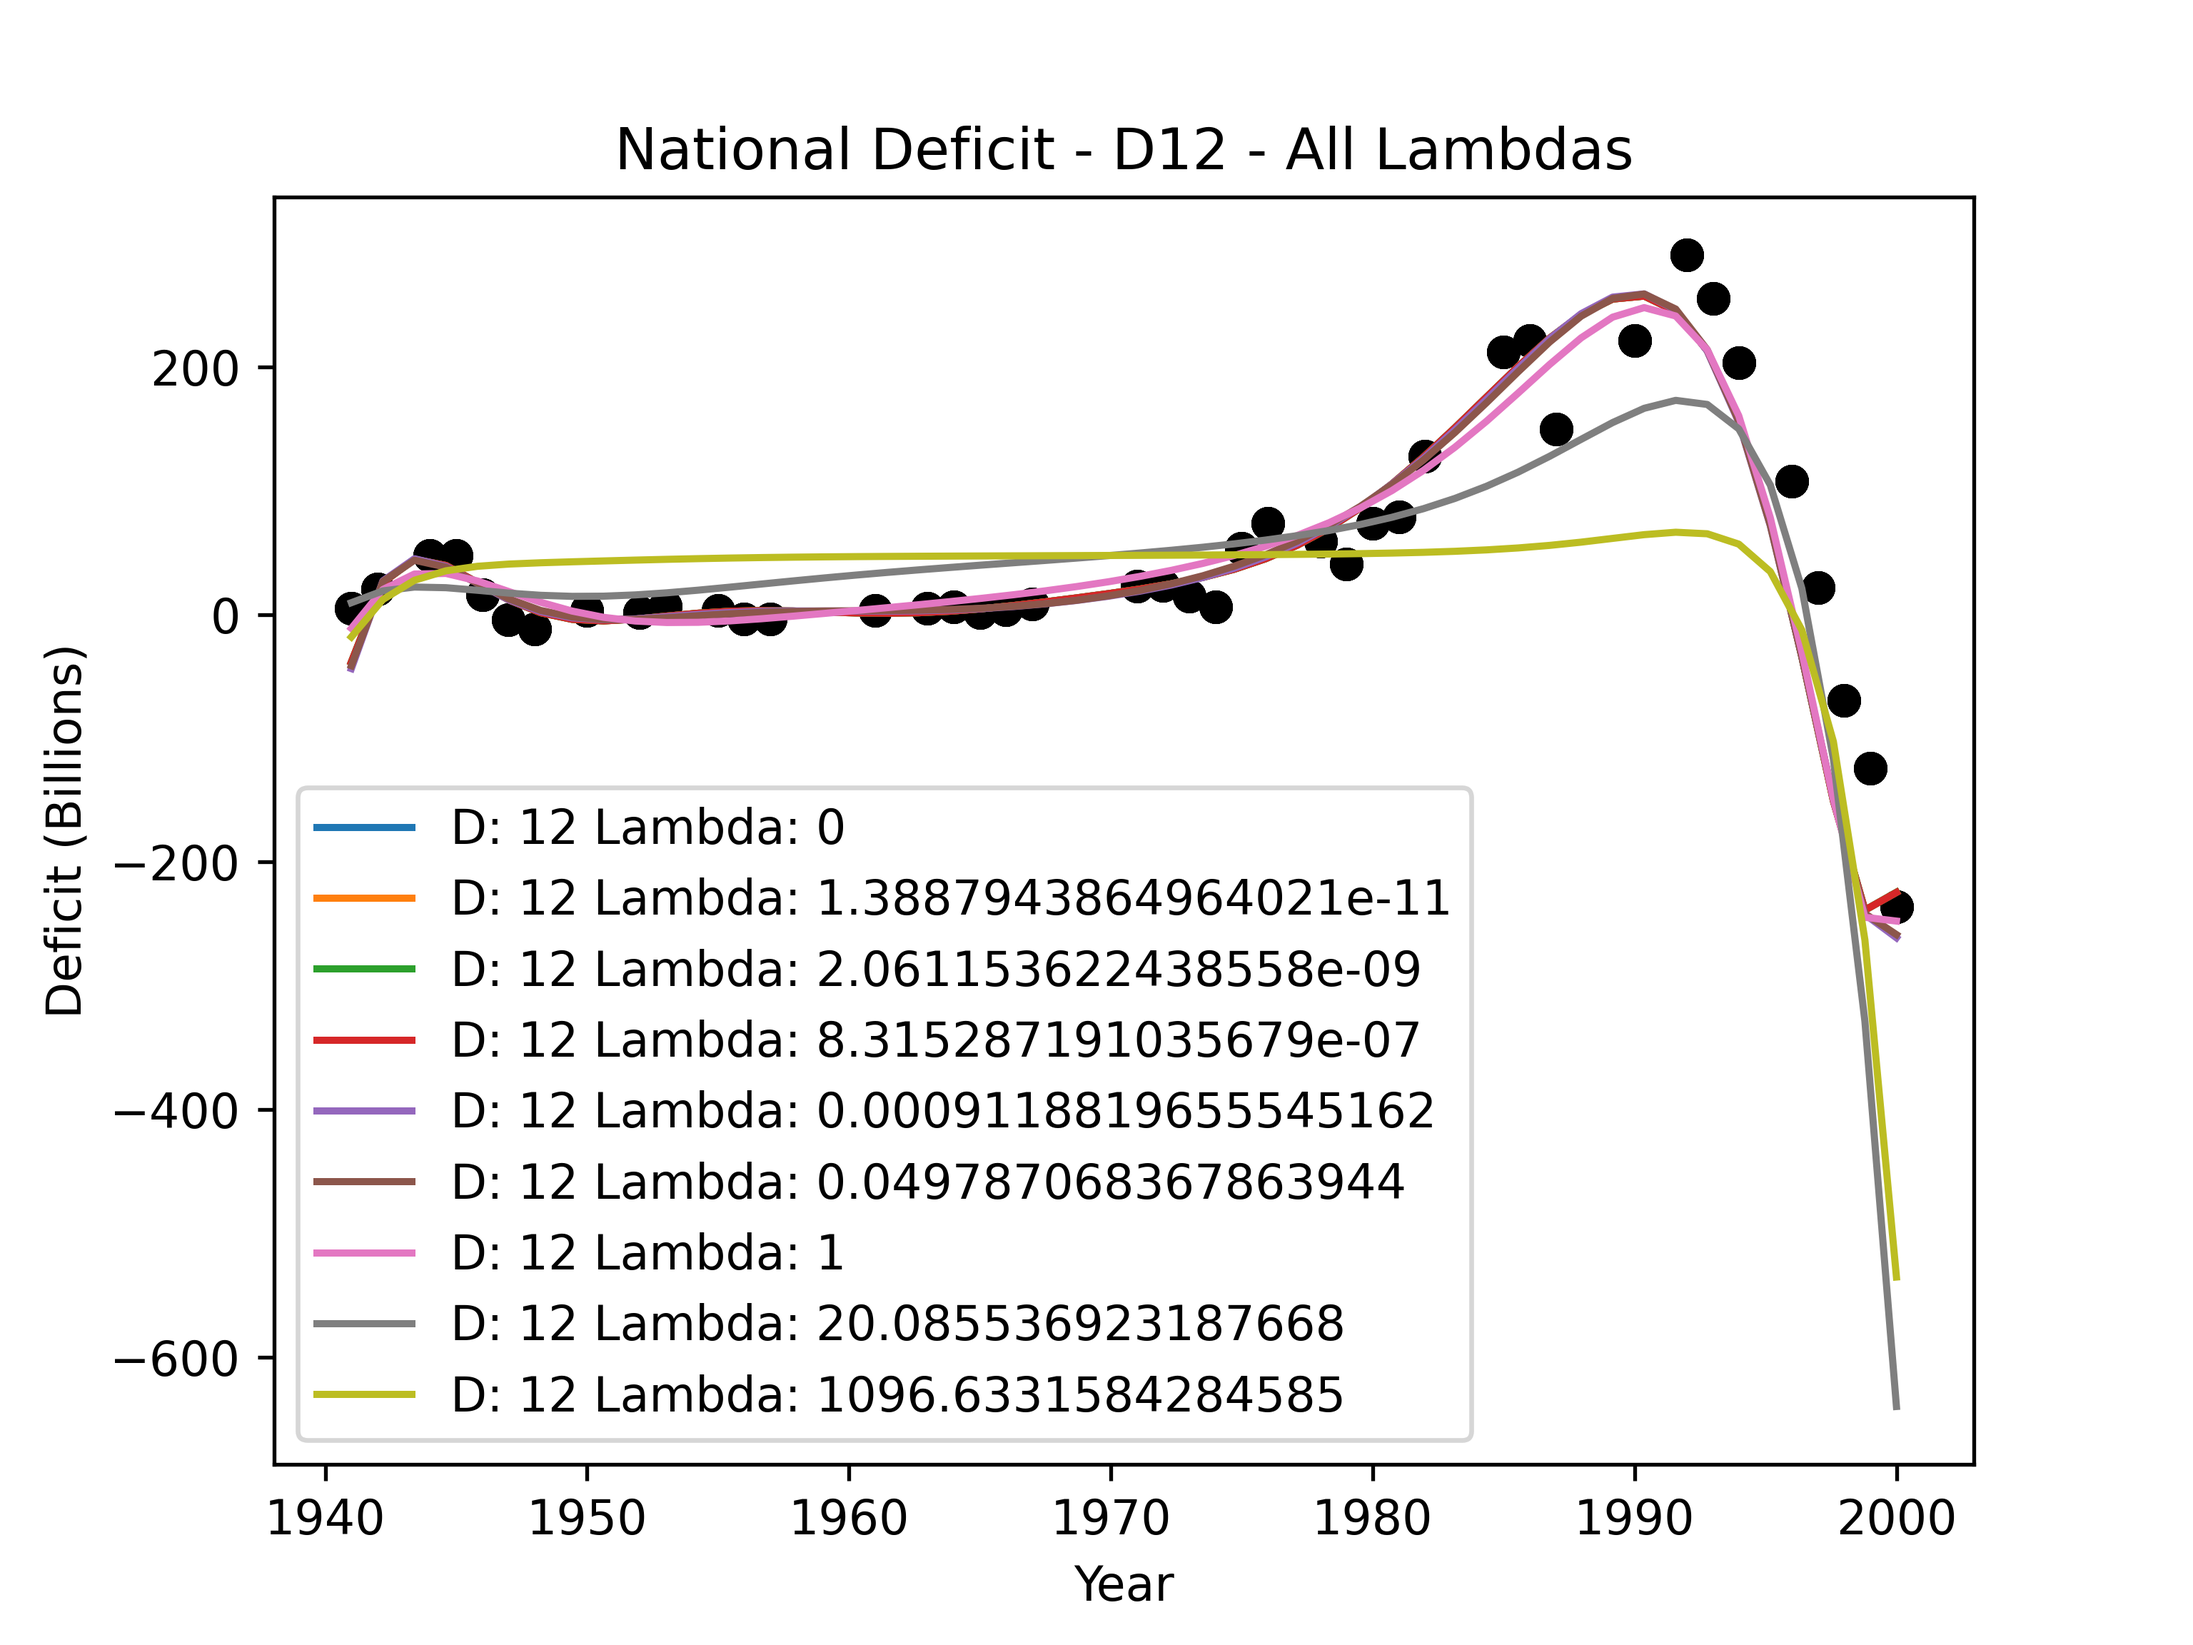
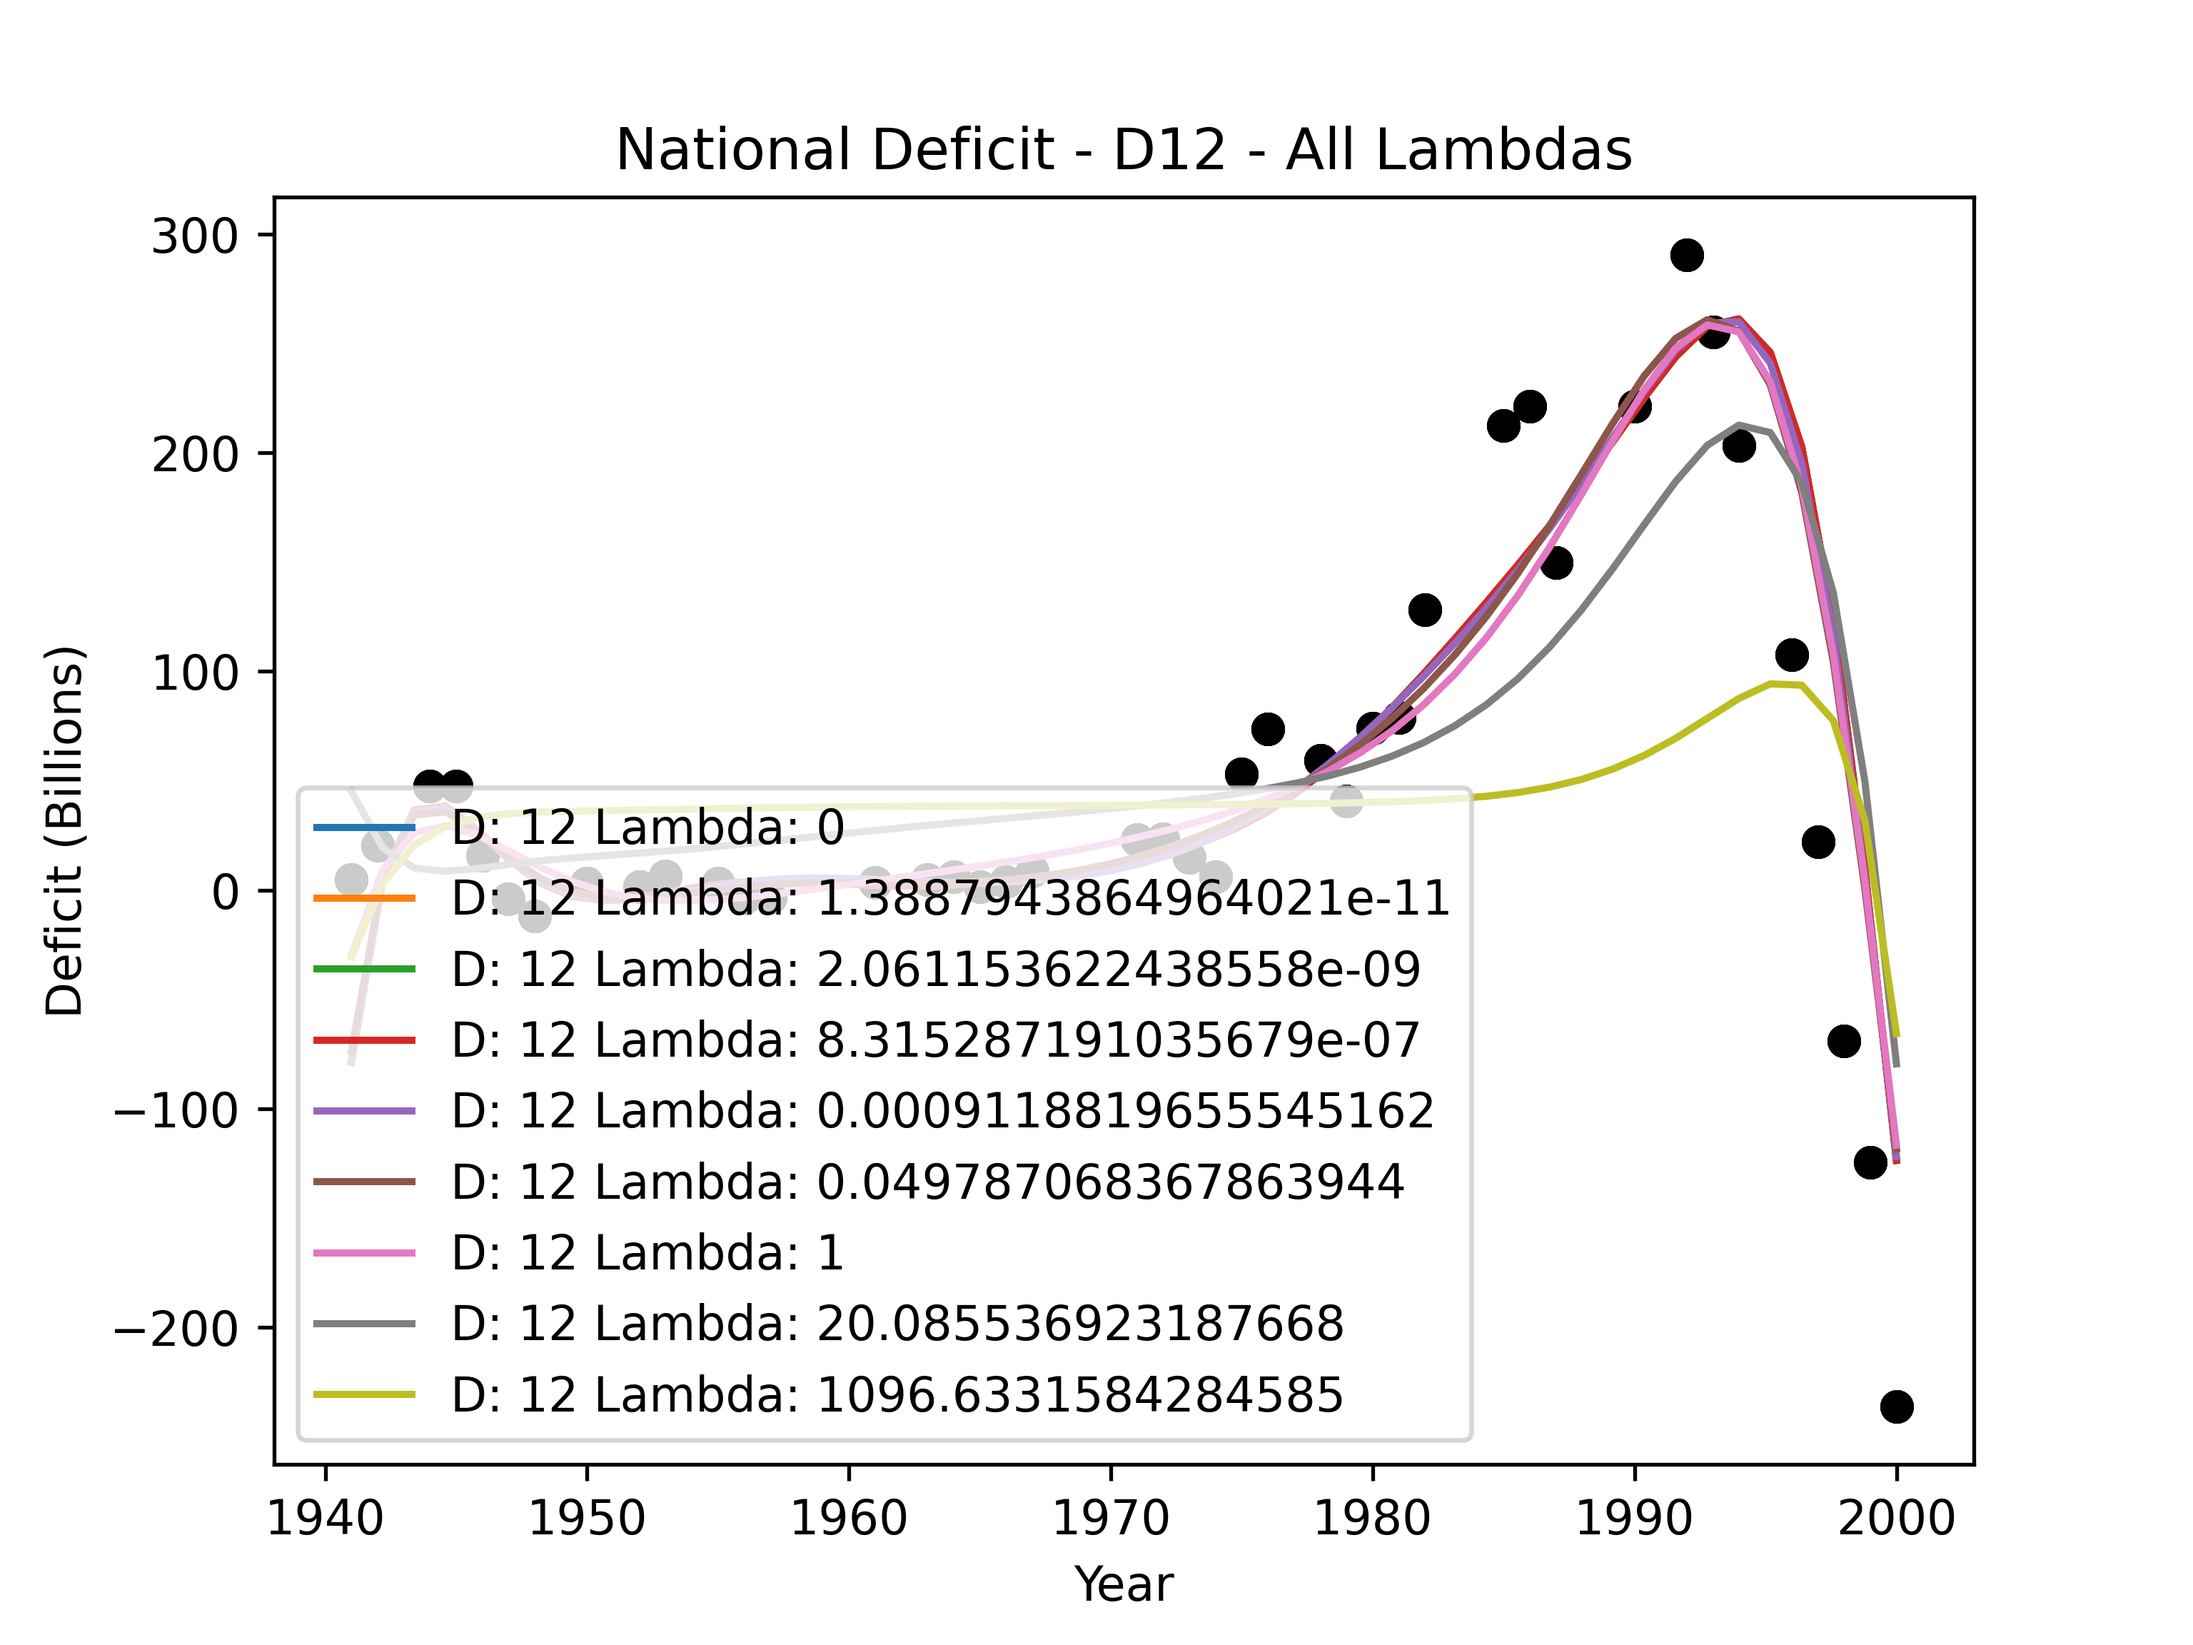
fix normalization

diff --git a/app/ridge_regression.py b/app/ridge_regression.py
@@ -4,6 +4,7 @@ from sklearn.preprocessing import PolynomialFeatures, StandardScaler
 import matplotlib.pyplot as plot
 from sklearn.metrics import mean_squared_error
 import math
+import pprint
 
 def read_data_to_x_y_arrays(input_data_file_name):    
     x_axis = []
@@ -62,8 +63,20 @@ def root_mean_square_error(y_orig, y_predicted):
     rmse = math.sqrt(mse)
     return rmse
 
+def normalize_w_scalar(_data, _scaler):
+    normalized_data = _scaler.transform(_data.reshape(-1, 1))
 
-def normalize(_data, type="int"):
+    normal_array = []
+    for value in normalized_data:
+        normal_array.append(value[0])
+    single_numpy_array = numpy.array(normal_array)
+
+    average = numpy.average(single_numpy_array)
+    standard_deviation = numpy.std(single_numpy_array)
+
+    return single_numpy_array
+
+def normalize(_data):
     scaler = StandardScaler()
     scaler.fit(_data.reshape(-1, 1))
     normalized_data = scaler.transform(_data.reshape(-1, 1))
@@ -197,8 +210,6 @@ validation_dataset = "data/deficit_test.dat"
 training_x , training_y = read_data_to_x_y_arrays(training_dataset)
 validation_x , validation_y = read_data_to_x_y_arrays(validation_dataset)
 
-training_x_scalar, training_x_normalized = normalize(training_x)
-training_y_scalar, training_y_normalized = normalize(training_y)
 validation_x_scalar, validation_x_normalized = normalize(validation_x)
 validation_y_scalar, validation_y_normalized = normalize(validation_y)
 
@@ -216,24 +227,27 @@ for degree in range(13):
                      math.exp(-7), math.exp(-3), 1, math.exp(3), math.exp(7)]
     for _lambda in my_lambda:
         average_error_list = []
-        hold_outs_x , hold_outs_y = seperate_to_folds(training_x_normalized, training_y_normalized, folds)
+        hold_outs_x , hold_outs_y = seperate_to_folds(training_x, training_y, folds)
         for fold_n, hold_out_test_x  in enumerate(hold_outs_x):
             # Remove the hold_out[index] test data from the overall training data set
             # training_data_x = numpy.setdiff1d(training_x, hold_out_test_x)
 
             indexes_to_del = indexes_of_data(hold_out_test_x, fold_n * folds)
-            training_data_x = numpy.delete(training_x_normalized, indexes_to_del)
-            training_data_y = numpy.delete(training_y_normalized, indexes_to_del)
+            training_data_x = numpy.delete(training_x, indexes_to_del)
+            training_data_y = numpy.delete(training_y, indexes_to_del)
 
-            hypothesis = fit(training_data_x, training_data_y, degree, _lambda)
-            y_predicted = predict(hold_out_test_x, hypothesis, degree)
+            training_x_scalar, training_x_normalized = normalize(training_data_x)
+            training_y_scalar, training_y_normalized = normalize(training_data_y)
 
-            un_normalize_hold_out_x = un_normalize(hold_out_test_x, training_x_scalar)
-            un_normalize_hold_out_y = un_normalize(hold_outs_y[fold_n], training_y_scalar)
-            un_normalize_y_predicted = un_normalize(y_predicted, training_y_scalar)
-            error = root_mean_square_error(un_normalize_hold_out_y, un_normalize_y_predicted)
+            hypothesis = fit(training_x_normalized, training_y_normalized, degree, _lambda)
+
+            hold_out_test_x_normalized = normalize_w_scalar(hold_out_test_x, training_x_scalar)
+            y_predicted_normalized = predict(hold_out_test_x_normalized, hypothesis, degree)
+
+            un_normalize_y_predicted = un_normalize(y_predicted_normalized, training_y_scalar)
+            error = root_mean_square_error(hold_outs_y[fold_n], un_normalize_y_predicted)
             average_error_list.append(error)
-   
+   #matplot lib
         hypothesis = fit(training_x_normalized, training_y_normalized, degree, _lambda)
         average_error = sum(average_error_list) / len(average_error_list)
         totals.append([degree, _lambda, average_error, hypothesis])
@@ -244,7 +258,8 @@ plot_all_itterations(totals)
 plot_all_lambda_for_d_12(totals)
 
 print("__ALL TOTALS__")
-print(totals)
+pp = pprint.PrettyPrinter(indent=4)
+print(pp.pprint(totals))
 print("______________")
 lowest_overall_error = lowest_error(totals)
 print("The Winner!", lowest_overall_error)
